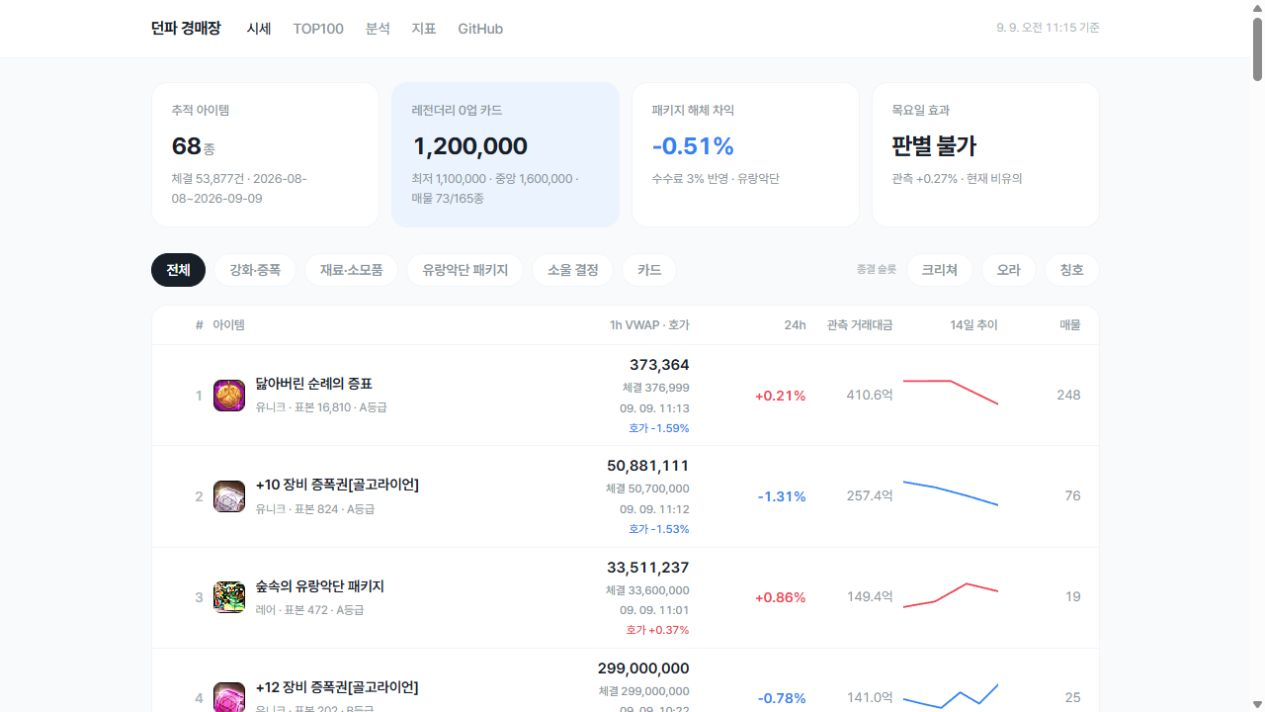
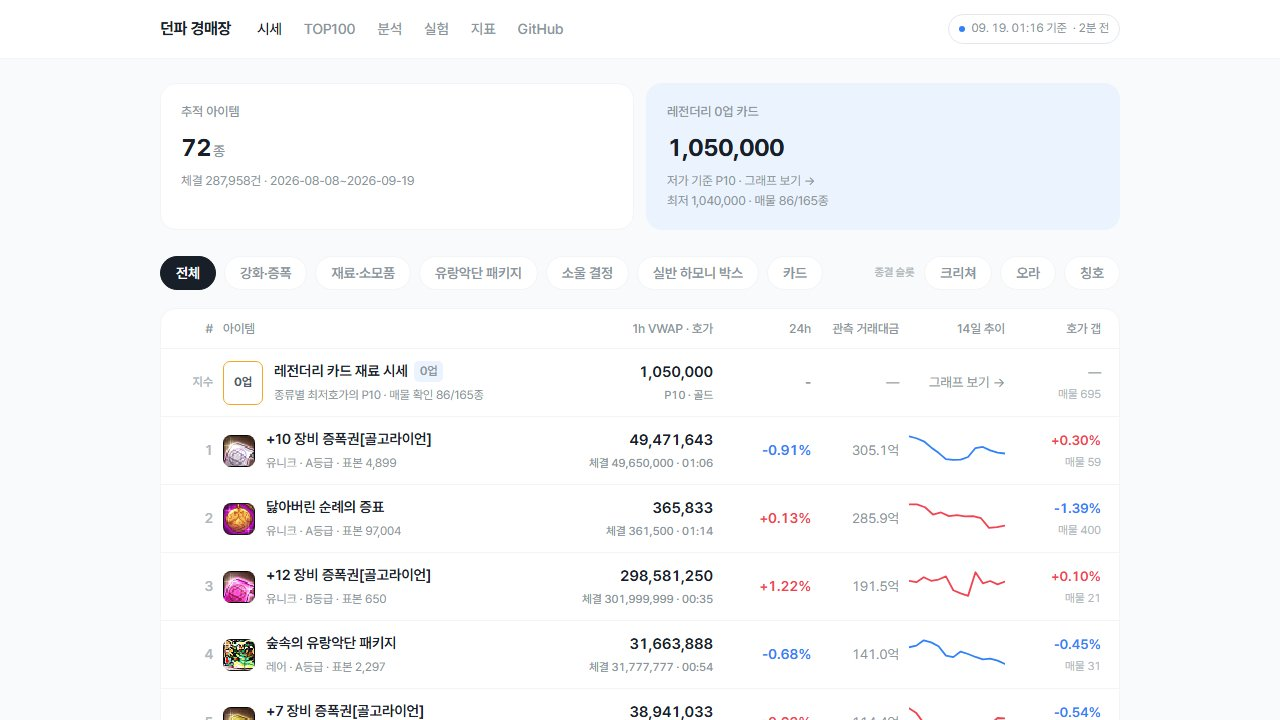
docs: describe the redesign in the README and refresh screenshots

diff --git a/README.md b/README.md
@@ -6,11 +6,11 @@
 
 ## 화면
 
-![1시간 VWAP과 최근 체결가를 보여주는 거래대금순 시세 목록](docs/list.jpg)
+![1시간 VWAP, 최근 체결가와 시각, 호가 갭 열을 보여주는 거래대금순 시세 목록](docs/list.jpg)
 
-![에픽 소울 결정의 1시간 VWAP과 최근 체결을 구분한 상세 화면](docs/detail.jpg)
+![천공의 지배자의 1시간 VWAP, 관측일 대비 가격 위치와 가격·체결 수량 차트를 보여주는 상세 화면](docs/detail.jpg)
 
-2026-09-09 배포 화면입니다. 가격과 표본 수는 수집·배포 시점에 따라 달라집니다.
+2026-09-19 빌드 화면입니다. 가격과 표본 수는 수집·배포 시점에 따라 달라집니다.
 
 ## 왜 만드는가
 
@@ -22,7 +22,7 @@
 
 **72종을 아이템별 기본 2~60분 주기로 수집**합니다. 100건 포화이면서 그 100건이 현재 폴링 주기의 1.5배도 덮지 못할 때만 최소 1분까지 자동 단축하고, 수집 공백 때문에 생긴 포화는 기록만 남깁니다. GitHub Actions 안에서는 5분 이하 고빈도 종목과 나머지를 분리해 실행합니다.
 
-일반 아이템의 대표 가격은 **데이터 기준 시각 직전 60분의 수량 가중평균(VWAP)** 입니다. `Σ(체결 단가 × 수량) ÷ 총수량`으로 계산하고, 최근 체결가와 거래 시각을 아래에 따로 표시합니다. 1시간 내 관측 체결이 없으면 평균은 비워 둡니다. 카드는 체결 API로 업그레이드를 구분할 수 없어 단계별 최저 호가를 사용합니다. 사이트는 매시간 갱신됩니다.
+일반 아이템의 대표 가격은 **데이터 기준 시각 직전 60분의 수량 가중평균(VWAP)** 입니다. `Σ(체결 단가 × 수량) ÷ 총수량`으로 계산하고, 최근 체결가와 거래 시각을 아래에 따로 표시합니다. 1시간 내 관측 체결이 없으면 평균은 비워 둡니다. 상세 화면은 최근 24시간 평균가가 최근 최대 30개 관측일의 일별 VWAP 중 어디에 있는지를 실제 비교 기간과 함께 보여 줍니다. 위치일 뿐 가격 방향의 예측은 아닙니다. 카드는 체결 API로 업그레이드를 구분할 수 없어 단계별 최저 호가를 사용합니다. 사이트는 매시간 갱신됩니다.
 
 | 분류 | 종 | 예 |
 |---|---|---|
@@ -44,11 +44,12 @@
 
 - **가격 변화에 단기 반전·지속 신호가 있는지 검정합니다.** 종목별 가장 긴 연속 완료 시간봉 구간(최소 30봉)에 VR(2) 검정을 적용합니다. 겹치는 수익률의 편향을 보정하고, 이분산에 견고한 표준오차와 Holm 다중 검정 보정을 적용합니다. 장기 평균회귀와 실제 매수 전략의 유용성은 미검증이며, 체결 수 그룹 비교만으로 관측 잡음을 배제하지 않습니다.
 - **예측 성능은 날짜별 롤링 평가로 확인합니다.** 평가 당일을 제외한 자료로 요일 계수와 추세를 다시 추정하고, 마지막 완료 일봉의 VWAP을 유지하는 naive와 1일·7일 뒤 오차를 비교합니다. 백필을 포함한 체결 시각 기준 평가이며 당시 수집기가 보유했던 자료의 재현은 아닙니다. 성능 차이의 원인을 평균회귀라고 단정하지 않습니다.
+- **모델 오차가 naive보다 커서 일반 아이템 상세에는 예측을 그리지 않습니다.** 방향 없이 폭만 정하는 과거 변동폭 기반 참고 범위(마지막 완료일 가격 ± 하루 변동폭 80분위수 × √일수)도 결과를 보기 전에 공식을 고정해 같은 롤링 평가로 재구성했지만, 실제 포함률이 목표 80%에 못 미쳐 분석 페이지에만 기록합니다.
 - **유랑악단 패키지 탭에서 해체 마진과 주또주 가치를 계산합니다.** 패키지와 구성품 5종의 최근 24시간 VWAP이 모두 있을 때 수수료 3%를 반영합니다. 주또주 계산기는 세라샵 기존·추가 구매 회차, 보관 수량, 코인 교환 한도와 보유분을 반영해 추가 판매 회수액을 계산합니다. 귀속 보상은 개인 사용 가치로 분리하고, 세라·골드는 사용자 환산 기준이 있을 때만 비교합니다. 관측 단가를 직접 수정할 수 있으며 결측은 0으로 대체하지 않습니다. 실제 판매 가능성·확률형 개봉 수익을 보장하지 않습니다. [계산 기준](docs/package-calculator.md)
-- **요일별 가격 트렌드를 품목군별로 비교합니다.** 메인 품목 탭과 카드 딜러·버퍼 선택을 반영해 월~일 가격 수준과 전날 대비 변화율을 보여 줍니다. 일반 체결가·카드 0업·맥스업 호가는 분리합니다. 일반 아이템은 하루 체결 5건, 카드는 하루 호가 18시간 이상을 유효 관측으로 삼고 월~일 완료 주 4주 이상인 종목에 같은 비중을 줍니다. 가격 수준은 종목별 주평균 100 기준이며, 전날이 결측이면 변화율을 계산하지 않습니다. 표본 부족 시 요일별 유효 관측 수를 공개합니다.
+- **요일별 가격 트렌드를 품목군별로 비교합니다.** 메인 품목 탭과 카드 딜러·버퍼 선택을 반영해 월~일 가격 수준과 전날 대비 변화율을 보여 줍니다. 일반 체결가·카드 0업·맥스업 호가는 분리합니다. 일반 아이템은 하루 체결 5건, 카드는 하루 호가 18시간 이상을 유효 관측으로 삼고 월~일 완료 주 4주 이상인 종목에 같은 비중을 줍니다. 가격 수준은 종목별 주평균 100 기준이며, 전날이 결측이면 변화율을 계산하지 않습니다. 조건을 채운 종목이 없는 품목군에서는 메인 패널을 숨기고, 준비 현황은 분석 페이지 한계 절에 공개합니다.
 - **요일 효과의 통계 검정과 아이템 유형 군집은 보류했습니다.** 요일별 관측 패턴과 유의성 판정은 다릅니다. 4주는 표시 기준이며 검정력을 보장하지 않고, 패치·이벤트 영향을 제거한 결과도 아닙니다. 목요일은 비교를 위한 강조이며 메인에서 `p<0.05`·`현재 비유의` 판정은 사용하지 않습니다.
 
-**2026-09-09 11:15 KST 빌드의 검증 예:** 체결가 분석 후보 34종 중 14종이 분산비 검정 조건을 충족했고, Holm 보정 후 유의한 종목은 0종이었습니다. 1일 뒤 예측은 4종·15건 평가에서 모델 MAPE 2.32%, naive 1.97%로 모델의 오차가 더 컸습니다. 이 수치는 해당 시점의 기록이며, 최신 결과는 매시간 재계산됩니다.
+**2026-09-19 00:55 KST 빌드의 검증 예:** 체결가 분석 후보 38종 중 19종이 분산비 검정 조건을 충족했고, Holm 보정 후 반전 신호 5종·지속 신호 0종이었습니다. 1일 뒤 예측은 35종·139건에서 모델 MAPE 5.29%, naive 3.90%, 7일 뒤는 9종·48건에서 12.14%, 6.43%로 모델의 오차가 더 컸습니다. 참고 범위의 실제 포함률은 1일 73.4%, 7일 60.4%였습니다. 이 수치는 해당 시점의 기록이며, 최신 결과는 매시간 재계산됩니다.
 
 **2026-09-16 요일 보정 비교 실험:** 동일한 과거 평가 사례에서 마지막 가격 유지 / 추세만 / 추세+요일의 MAPE는 1일 뒤 **4.233% / 6.412% / 6.469%**(11종·72건), 7일 뒤 **8.396% / 12.528% / 12.245%**(6종·27건)였습니다. 요일 추가의 영향은 예측 거리·종목별로 달랐고 두 추세 모델 모두 전체 평균에서 가격 유지보다 오차가 컸습니다. 통계적 유의성이나 미래 성능을 입증한 결과는 아닙니다. `npm run experiment:forecast`로 재실행할 수 있으며, [평가 조건·종목별 결과·제외 종목](docs/forecast-comparison-2026-09-16.md)을 기록했습니다.
 
@@ -90,11 +91,11 @@ flowchart TD
 **체결** (`/df/auction-sold`) — 실제로 팔린 가격과 수량
 **호가** (`/df/auction`) — 현재 올라와 있는 매물, 그리고 그 매물이 **소진되는 과정**
 
-두 번째가 이 프로젝트의 특징입니다. API가 등록 수량과 잔여 수량을 따로 주기 때문에, 같은 매물을 반복 관측하면 체결 API와 별개인 매물 소진 신호를 만들 수 있습니다. 만료 전 소멸에는 취소가 섞일 수 있어 체결량과 합산하지 않습니다.
+두 번째가 이 프로젝트의 특징입니다. API가 등록 수량과 잔여 수량을 따로 주기 때문에, 같은 매물을 반복 관측하면 체결 API와 별개인 매물 소진 신호를 만들 수 있습니다. 만료 전 소멸에는 취소가 섞일 수 있어 체결량과 합산하지 않습니다. 판매와 취소를 구분할 수 없으므로 소진 속도는 화면에 표시하지 않고 원자료만 보존하며, 화면에는 시간별 가격과 매물 잔량을 같은 시간축에 보여 줍니다.
 
 ## 레전더리·종류별 사전 예측
 
-[레전더리 화면](https://kimtaehoon1107-gif.github.io/dnf-price-tracker/index.html#legendary-card)에서 일평균 최저호가와 P10을 별도로 보고, [추세 화면](https://kimtaehoon1107-gif.github.io/dnf-price-tracker/research.html)에서 10개 고정 구성 지수와 구성 아이템별 흐름을 비교합니다. 체결 VWAP과 카드 단계별 호가는 분리합니다.
+[레전더리 화면](https://kimtaehoon1107-gif.github.io/dnf-price-tracker/index.html#legendary-card)에서 일평균 최저호가와 P10을 별도로 보고, [실험 화면](https://kimtaehoon1107-gif.github.io/dnf-price-tracker/research.html)에서 10개 고정 구성 지수와 구성 아이템별 흐름을 비교합니다. 화면 정리를 위해 기본 목록에는 구성 4종 이상인 7개만 두고, 1~3종 구성은 '소수 구성도 보기'로 엽니다. 체결 VWAP과 카드 단계별 호가는 분리합니다.
 
 2026-09-16부터 매일 발행한 입력·예측을 보존해 최근 가격 유지·지난주 같은 요일·추세+요일의 실제 후속 오차를 비교합니다. 요일 모델은 각 요일 관측 4회 이상일 때 참여하며, 미래 대상일은 평가 대기로 표시합니다. [패키지 분석](https://kimtaehoon1107-gif.github.io/dnf-price-tracker/research.html#package)은 고정된 전후 7일의 가격·구성품·해체 마진·관측 수량을 비교합니다. 표본 조건·사전 평가·결측 처리·실행 방법은 [방법 문서](docs/market-research.md)에 정리했습니다.
 
